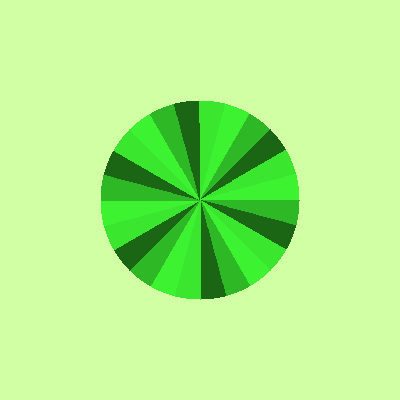
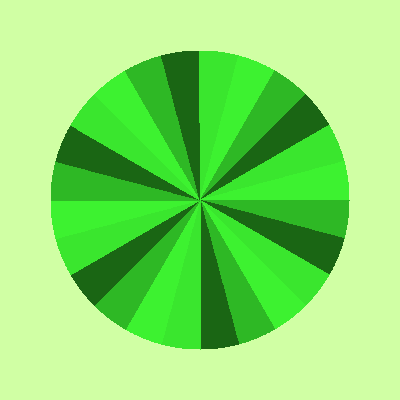
change circle size

Changed region(s): [[0.12, 0.12, 0.87, 0.87]]

diff --git a/main.go b/main.go
@@ -54,7 +54,7 @@ func drawBG(prc *processing.Processing, c color.RGBA) {
 func drawTimeTable(prc *processing.Processing, palette []color.RGBA) {
 	hours := 24
 	ang := 360 / hours
-	size := int(math.Max(float64(*width), float64(*height)) / 2)
+	size := int(math.Max(float64(*width), float64(*height)) * 0.75)
 	for i := 0; i < hours; i++ {
 		prc.Fill(&palette[i%4])
 		prc.Pie((*width / 2), (*height / 2), size, float64(i*ang), float64((i+1)*ang))
